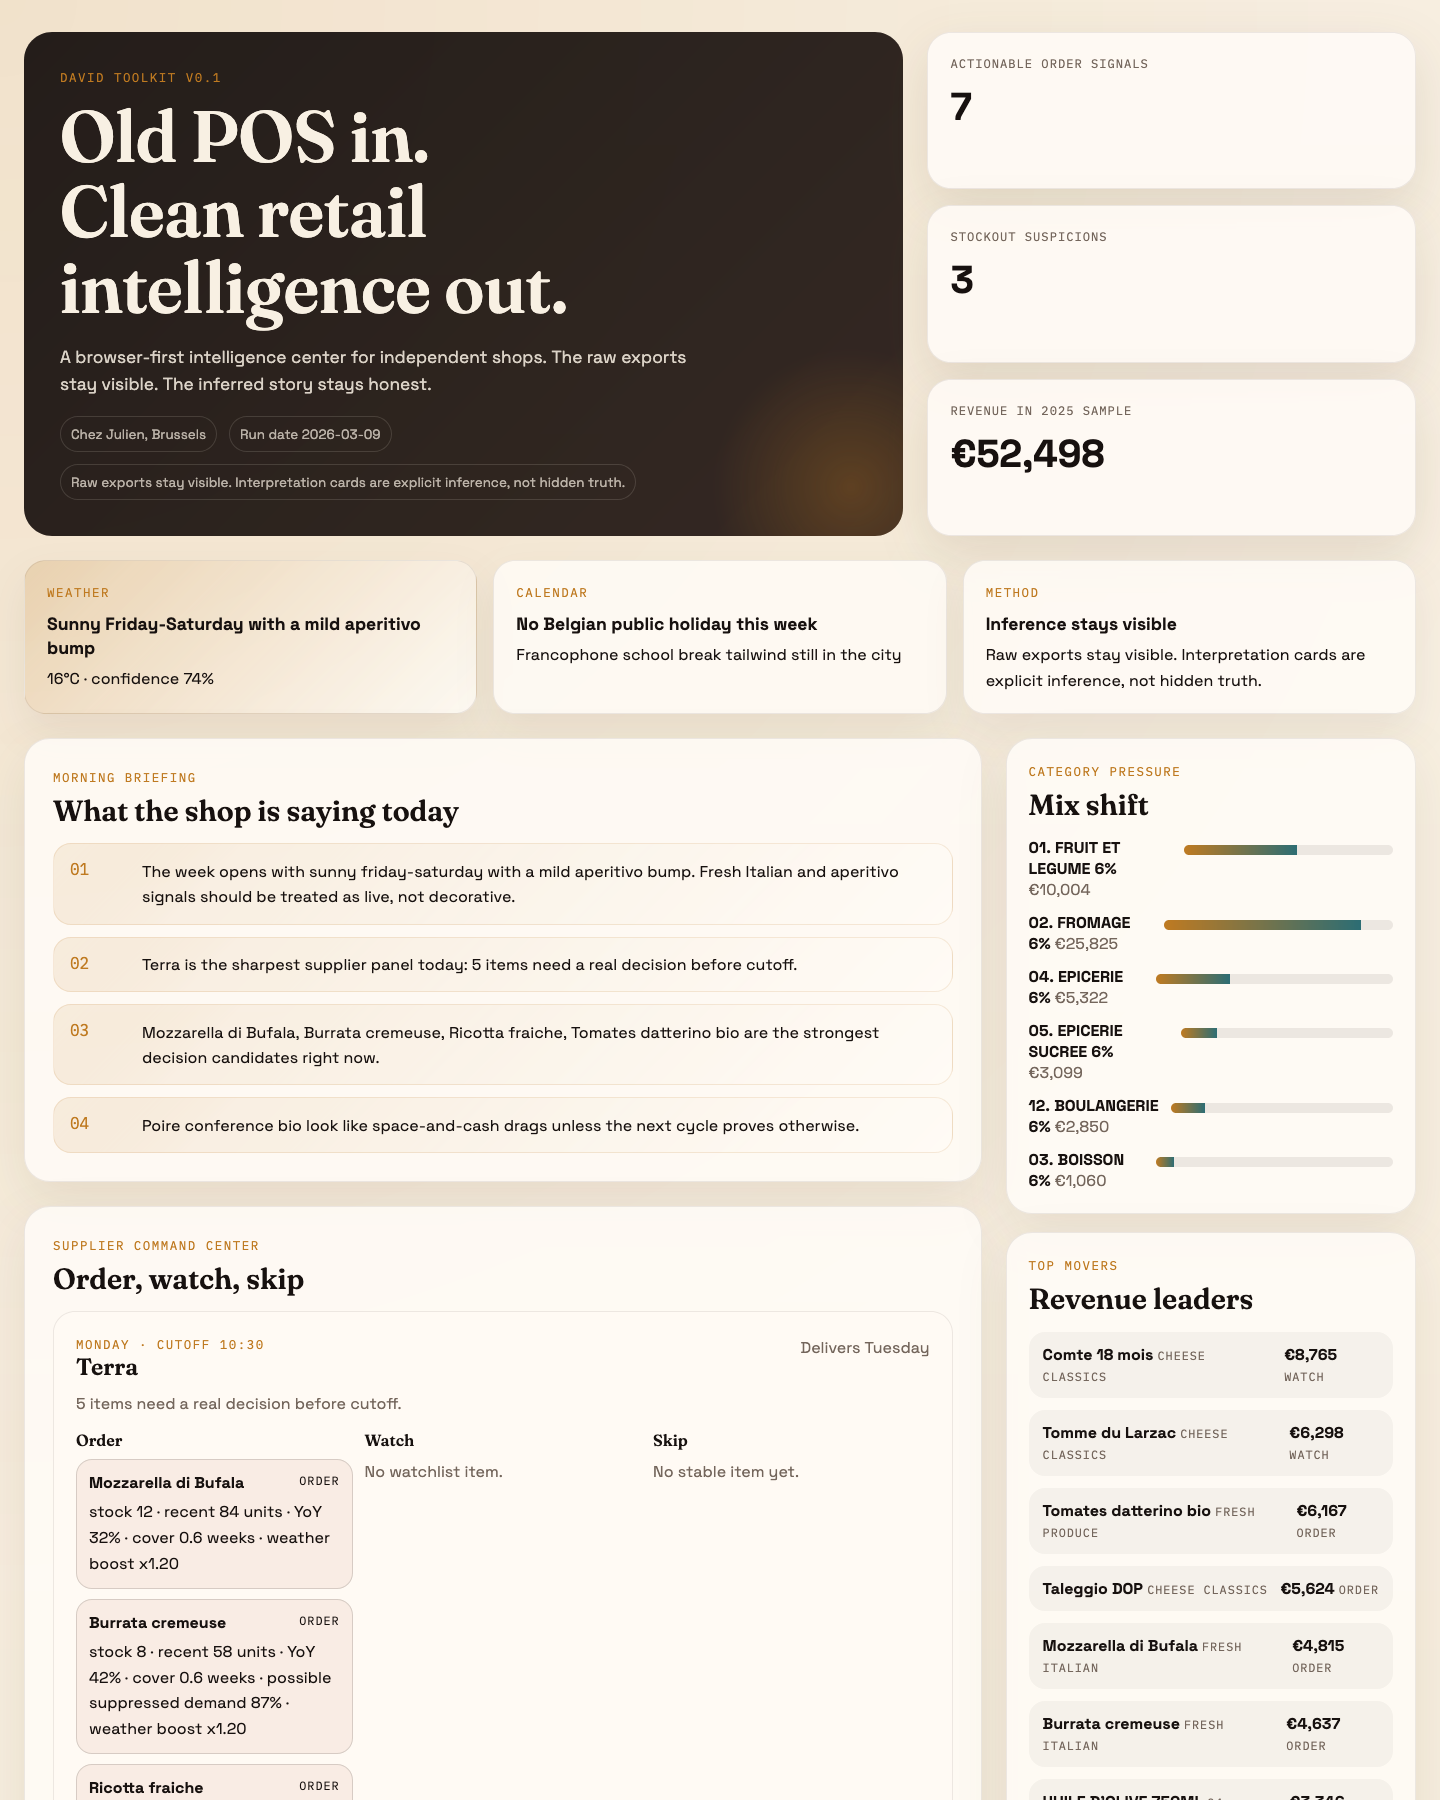
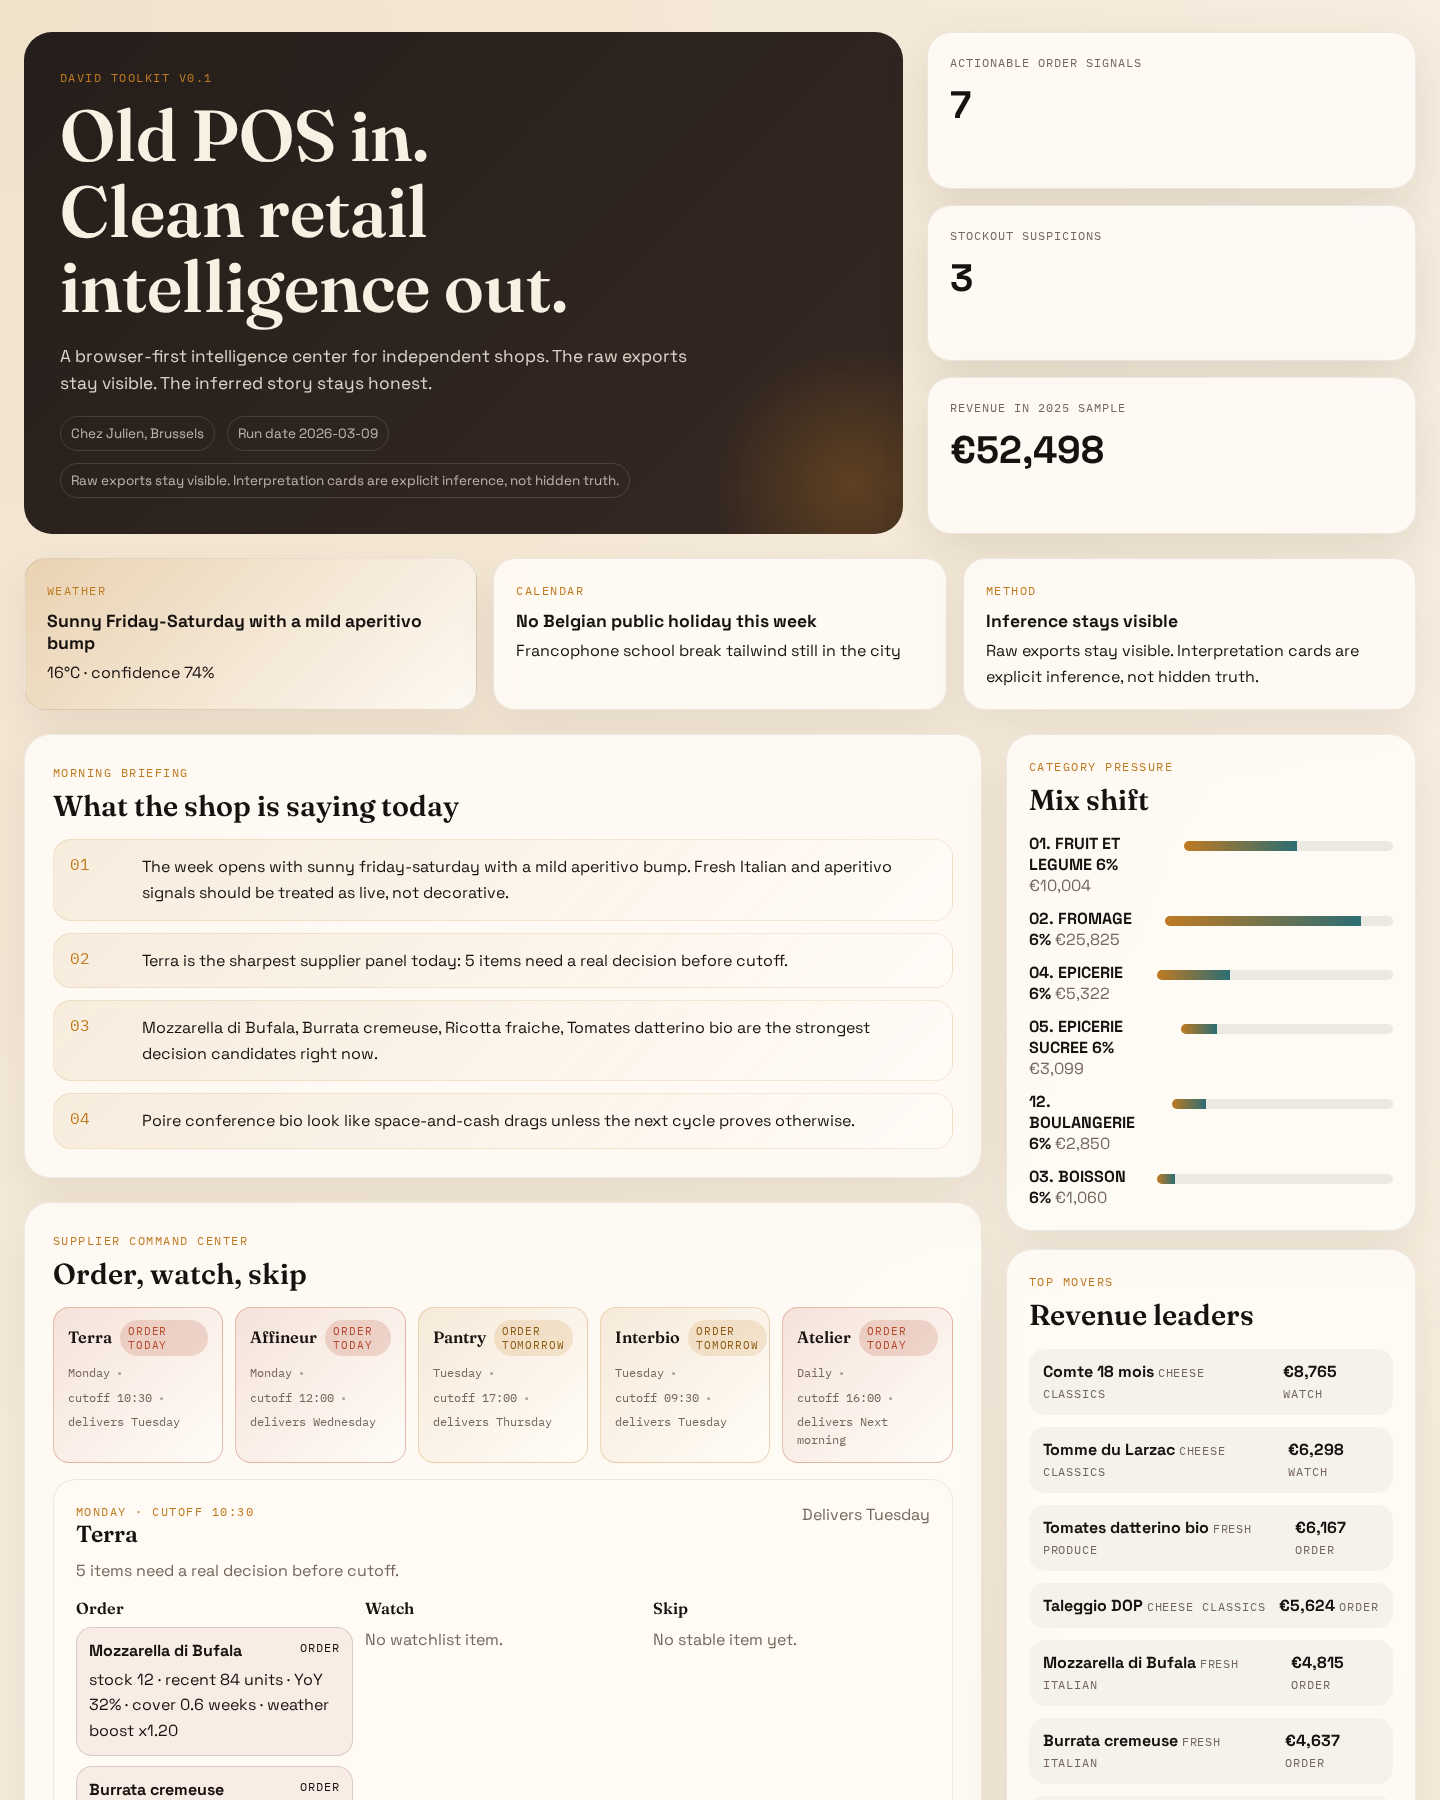
Add supplier cadence strip

diff --git a/public/styles.css b/public/styles.css
@@ -236,6 +236,89 @@ p {
   gap: 18px;
 }
 
+.supplier-cadence-strip {
+  display: flex;
+  gap: 12px;
+  margin-bottom: 16px;
+}
+
+.cadence-chip {
+  flex: 1 1 0;
+  min-width: 0;
+  padding: 12px 14px;
+  border-radius: 16px;
+  background: rgba(255, 252, 247, 0.84);
+  border: 1px solid var(--line);
+}
+
+.cadence-head {
+  display: flex;
+  justify-content: space-between;
+  align-items: center;
+  gap: 8px;
+  margin-bottom: 8px;
+}
+
+.cadence-name {
+  font-family: var(--display);
+  font-size: 1.02rem;
+  line-height: 1.1;
+}
+
+.cadence-urgency {
+  padding: 4px 8px;
+  border-radius: 999px;
+  font-family: var(--mono);
+  font-size: 0.68rem;
+  text-transform: uppercase;
+  letter-spacing: 0.08em;
+}
+
+.cadence-meta {
+  display: flex;
+  flex-wrap: wrap;
+  gap: 6px;
+  font-family: var(--mono);
+  font-size: 0.72rem;
+  color: var(--muted);
+}
+
+.cadence-meta span:not(:last-child)::after {
+  content: "•";
+  margin-left: 6px;
+  color: rgba(23, 17, 15, 0.35);
+}
+
+.cadence-chip[data-urgency="urgent"] {
+  border-color: rgba(180, 72, 45, 0.32);
+  background: linear-gradient(135deg, rgba(180, 72, 45, 0.13), rgba(255, 252, 247, 0.92));
+}
+
+.cadence-chip[data-urgency="urgent"] .cadence-urgency {
+  background: rgba(180, 72, 45, 0.18);
+  color: var(--red);
+}
+
+.cadence-chip[data-urgency="soon"] {
+  border-color: rgba(191, 122, 33, 0.28);
+  background: linear-gradient(135deg, rgba(191, 122, 33, 0.12), rgba(255, 252, 247, 0.92));
+}
+
+.cadence-chip[data-urgency="soon"] .cadence-urgency {
+  background: rgba(191, 122, 33, 0.16);
+  color: #8d5a13;
+}
+
+.cadence-chip[data-urgency="scheduled"] {
+  border-color: rgba(53, 100, 79, 0.28);
+  background: linear-gradient(135deg, rgba(44, 109, 116, 0.1), rgba(255, 252, 247, 0.9));
+}
+
+.cadence-chip[data-urgency="scheduled"] .cadence-urgency {
+  background: rgba(53, 100, 79, 0.14);
+  color: var(--green);
+}
+
 .supplier-card {
   padding: 22px;
   border-radius: 22px;
@@ -473,6 +556,19 @@ p {
 @media (max-width: 720px) {
   .page-shell {
     padding: 18px 14px 40px;
+  }
+
+  .supplier-cadence-strip {
+    overflow-x: auto;
+    padding-bottom: 6px;
+    scroll-snap-type: x mandatory;
+    -webkit-overflow-scrolling: touch;
+  }
+
+  .cadence-chip {
+    flex: 0 0 220px;
+    min-width: 220px;
+    scroll-snap-align: start;
   }
 
   .hero-copy,

diff --git a/public/app.js b/public/app.js
@@ -31,6 +31,29 @@ function itemMarkup(item) {
   `;
 }
 
+function cadenceChipMarkup(supplier) {
+  const cadence = supplier.cadence || {};
+  const orderDay = cadence.orderDay || supplier.orderDay || "Unknown";
+  const cutoff = cadence.cutoff || supplier.cutoff || "Unknown";
+  const deliveryDay = cadence.deliveryDay || supplier.deliveryDay || "Unknown";
+  const urgency = cadence.urgency || "scheduled";
+  const urgencyLabel = cadence.urgencyLabel || "Scheduled";
+
+  return `
+    <article class="cadence-chip" data-urgency="${urgency}">
+      <div class="cadence-head">
+        <strong class="cadence-name">${supplier.name}</strong>
+        <span class="cadence-urgency">${urgencyLabel}</span>
+      </div>
+      <p class="cadence-meta">
+        <span>${orderDay}</span>
+        <span>cutoff ${cutoff}</span>
+        <span>delivers ${deliveryDay}</span>
+      </p>
+    </article>
+  `;
+}
+
 fetch("./data/demo.json")
   .then((response) => response.json())
   .then((data) => {
@@ -71,6 +94,8 @@ fetch("./data/demo.json")
         `
       )
       .join("");
+
+    document.getElementById("supplier-cadence-strip").innerHTML = data.suppliers.map(cadenceChipMarkup).join("");
 
     document.getElementById("supplier-grid").innerHTML = data.suppliers
       .map(
@@ -208,4 +233,3 @@ fetch("./data/demo.json")
       )
       .join("");
   });
-

diff --git a/public/index.html b/public/index.html
@@ -54,6 +54,7 @@
             <p class="eyebrow">Supplier command center</p>
             <h2>Order, watch, skip</h2>
           </div>
+          <div class="supplier-cadence-strip" id="supplier-cadence-strip"></div>
           <div class="supplier-grid" id="supplier-grid"></div>
         </section>
 
@@ -113,4 +114,3 @@
   <script type="module" src="./app.js"></script>
 </body>
 </html>
-

diff --git a/README.md b/README.md
@@ -12,6 +12,7 @@ This first demo is built around a real independent food shop context. It reads r
 
 - Parses `ExportStatVente`, `STA_satvente`, `STA_ratioCAT`, and `Analyse_00` style exports
 - Builds a browser-ready intelligence center with:
+  - supplier cadence strip with urgency states
   - supplier command panels
   - product and category intelligence
   - raw vs interpreted demand signals
